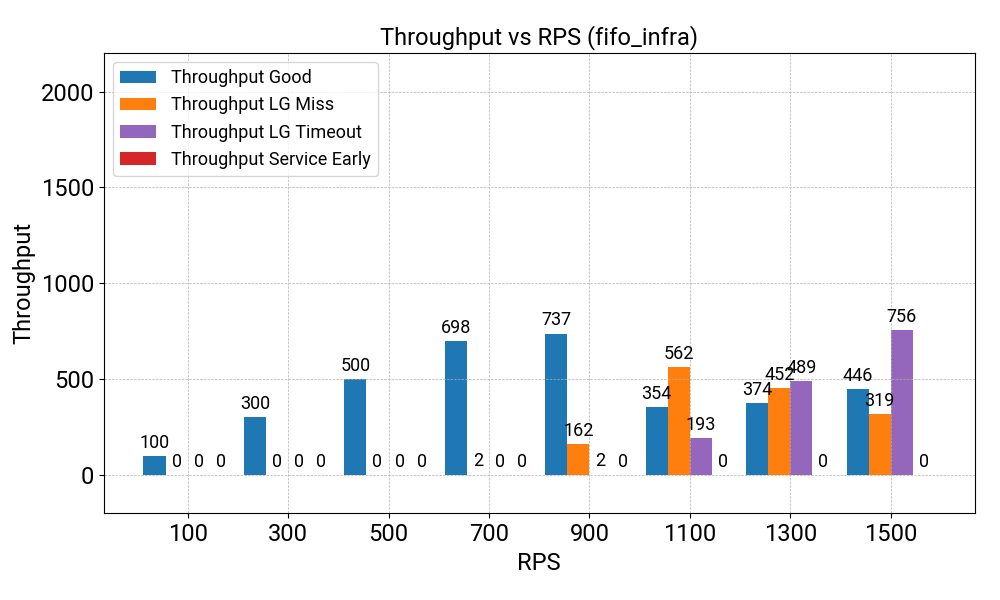
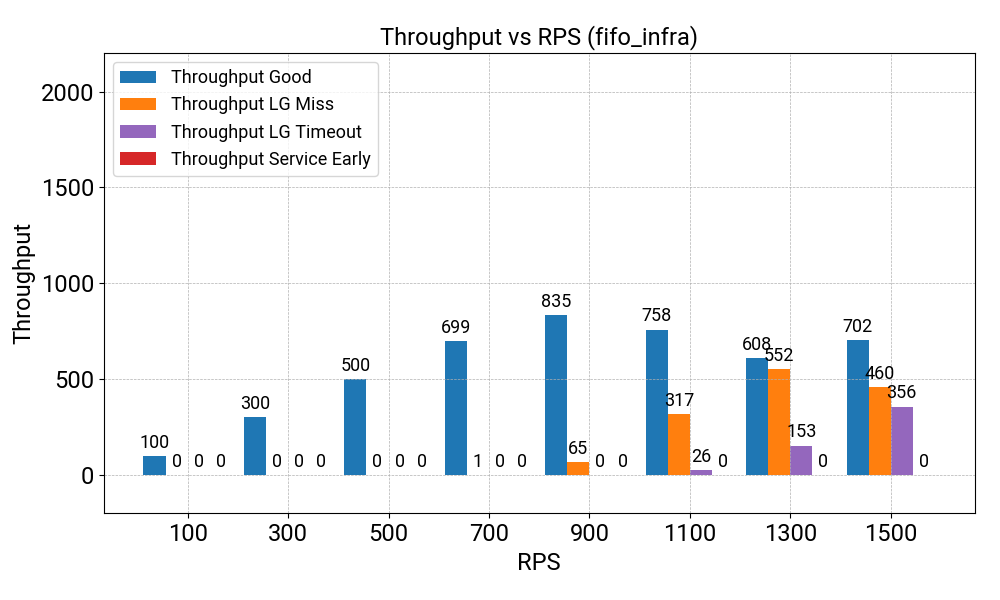
test: Add partial search results for fifo_infra

diff --git a/reboot-hotel/src/hotel/client/client_bench.rs b/reboot-hotel/src/hotel/client/client_bench.rs
@@ -425,8 +425,8 @@ async fn main() -> Result<(), Box<dyn std::error::Error>> {
             const SEED: u64 = 998244353;
 
             let graph_id: GraphId = "Hotel".to_string();
-            // let api = "Search".to_string();
-            let api = "Reservation".to_string();
+            let api = "Search".to_string();
+            // let api = "Reservation".to_string();
             let seed = SEED * KEY + rps;
             let rng = StdRng::seed_from_u64(seed);
             let client = FrontendClient::connect(gen_cfg.addr.clone()).await?;
